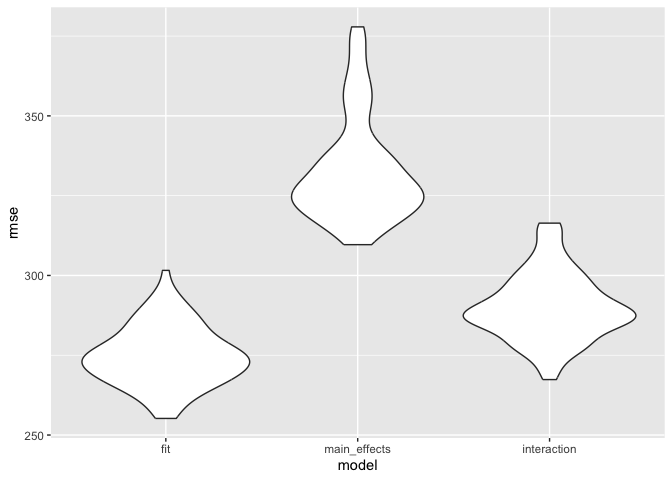
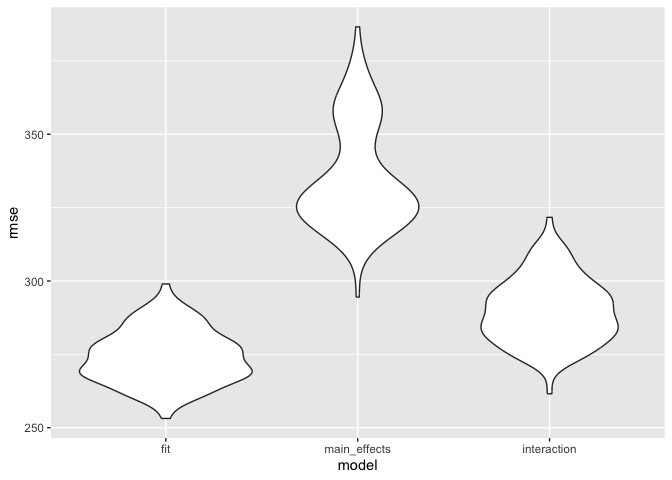
update something in q2 and q3

diff --git a/p8105_hw6_qs2261.md b/p8105_hw6_qs2261.md
@@ -68,7 +68,7 @@ log_beta =
 - There are many estimates of prcp is negative, so we get many NAs when
   calculating the log(beta1\*beta2).
 
-Plot the distribution of your estimates, and describe these in words.
+Plot the distribution of `r.squared`, and describe these in words.
 
 ``` r
 r_square |> 
@@ -79,8 +79,10 @@ r_square |>
 ![](p8105_hw6_qs2261_files/figure-gfm/unnamed-chunk-3-1.png)<!-- -->
 
 - r_square: the distribution of r_square under repeated strap is a
-  little left skewed, the majority of the r square value is greater than
-  0.9 and centered around 0.918.
+  little left skewed, the majority of the r square value is between 0.88
+  and 0.94, and the peak is around 0.918.
+
+Plot the distribution of `log_beta1_beta2`, and describe these in words.
 
 ``` r
 log_beta |> 
@@ -88,43 +90,37 @@ log_beta |>
   geom_density()
 ```
 
-    ## Warning: Removed 3341 rows containing non-finite values (`stat_density()`).
+    ## Warning: Removed 3383 rows containing non-finite values (`stat_density()`).
 
 ![](p8105_hw6_qs2261_files/figure-gfm/unnamed-chunk-4-1.png)<!-- -->
 
 - log_beta: Since we get many NAs when calculating the
-  log(beta1\*beta2), we removed 3327 rows in this distribution plot. The
+  log(beta1\*beta2), we removed many rows in this distribution plot. The
   distribution of log_beta under repeated strap is left skewed, and the
-  majority estimates of the log_beta are greater than -7.5 and centered
-  around -5.
+  majority estimates of the log_beta are between -8 and -4.5, and the
+  peak is around -5.
 
 Compute 95% CI
 
 ``` r
-r_square |> 
+r_square_sum =
+  r_square |> 
   summarize(
     ci_lower = quantile(r.squared, 0.025),
     ci_upper = quantile(r.squared, 0.975)
   )
-```
 
-    ## # A tibble: 1 × 2
-    ##   ci_lower ci_upper
-    ##      <dbl>    <dbl>
-    ## 1    0.888    0.941
-
-``` r
-log_beta |> 
+log_beta_sum =
+  log_beta |> 
   summarize(
     ci_lower = quantile(log_beta1_beta2, 0.025, na.rm = TRUE),
     ci_upper = quantile(log_beta1_beta2, 0.975, na.rm = TRUE)
   )
 ```
 
-    ## # A tibble: 1 × 2
-    ##   ci_lower ci_upper
-    ##      <dbl>    <dbl>
-    ## 1    -9.25    -4.59
+The 95% CI for R squared is from 0.8898596 to -4.5687042.
+
+The 95% CI for log_beta1_beta2 is from -9.2914709 to -4.5687042.
 
 ## Problem 3
 
@@ -145,21 +141,6 @@ birthweight_raw =
     ## ℹ Use `spec()` to retrieve the full column specification for this data.
     ## ℹ Specify the column types or set `show_col_types = FALSE` to quiet this message.
 
-Check for missing value
-
-``` r
-birthweight_raw |> 
-  summarise_all(~sum(is.na(.)))
-```
-
-    ## # A tibble: 1 × 20
-    ##   babysex bhead blength   bwt delwt fincome frace gaweeks malform menarche
-    ##     <int> <int>   <int> <int> <int>   <int> <int>   <int>   <int>    <int>
-    ## 1       0     0       0     0     0       0     0       0       0        0
-    ## # ℹ 10 more variables: mheight <int>, momage <int>, mrace <int>, parity <int>,
-    ## #   pnumlbw <int>, pnumsga <int>, ppbmi <int>, ppwt <int>, smoken <int>,
-    ## #   wtgain <int>
-
 Clean data
 
 ``` r
@@ -170,16 +151,22 @@ birthweight_df =
     frace = as.factor(frace),
     malform = as.factor(malform),
     mrace = as.factor(mrace)
-    )
+    ) |> 
+  drop_na()
 ```
 
 ### Propose a regression model for birthweight
 
+- From my understanding, birthweight may be affected by baby’s sex,
+  baby’s length at birth, mother’s weight at delivery, gestational age
+  in weeks, presence of malformations that could affect weight, mother’s
+  weight gain during pregnancy. In this case, I decide to choose
+  `babysex` `blength` `delwt` `gaweeks` `malform` `wtgain` as predictors
+  to predict birth weight, and fit the data to a multiple linear
+  regression model.
+
 ``` r
-fit = lm(bwt ~babysex + bhead + blength + delwt + fincome + frace +
-               gaweeks + malform + menarche + mheight + momage + mrace +
-               parity + pnumlbw + pnumsga + ppbmi + ppwt + smoken + wtgain,
-             data = birthweight_df) 
+fit = lm(bwt ~babysex + blength + delwt + gaweeks + malform + menarche +  wtgain, data = birthweight_df) 
 
 broom::glance(fit)
 ```
@@ -187,30 +174,24 @@ broom::glance(fit)
     ## # A tibble: 1 × 12
     ##   r.squared adj.r.squared sigma statistic p.value    df  logLik    AIC    BIC
     ##       <dbl>         <dbl> <dbl>     <dbl>   <dbl> <dbl>   <dbl>  <dbl>  <dbl>
-    ## 1     0.718         0.717  272.      525.       0    21 -30498. 61042. 61189.
+    ## 1     0.593         0.592  327.      902.       0     7 -31297. 62612. 62670.
     ## # ℹ 3 more variables: deviance <dbl>, df.residual <int>, nobs <int>
 
 ``` r
 broom::tidy(fit)
 ```
 
-    ## # A tibble: 25 × 5
-    ##    term         estimate std.error statistic   p.value
-    ##    <chr>           <dbl>     <dbl>     <dbl>     <dbl>
-    ##  1 (Intercept) -6265.      660.      -9.49   3.81e- 21
-    ##  2 babysex2       28.7       8.47     3.39   7.02e-  4
-    ##  3 bhead         131.        3.45    37.9    2.16e-271
-    ##  4 blength        75.0       2.02    37.1    1.75e-261
-    ##  5 delwt           4.10      0.395   10.4    5.62e- 25
-    ##  6 fincome         0.290     0.180    1.61   1.07e-  1
-    ##  7 frace2         14.3      46.2      0.311  7.56e-  1
-    ##  8 frace3         21.2      69.3      0.306  7.59e-  1
-    ##  9 frace4        -47.0      44.7     -1.05   2.93e-  1
-    ## 10 frace8          4.30     74.1      0.0580 9.54e-  1
-    ## # ℹ 15 more rows
-
-- I put all the variables into my regression model since all the
-  variables have potential to affect birth weight.
+    ## # A tibble: 8 × 5
+    ##   term          estimate std.error statistic   p.value
+    ##   <chr>            <dbl>     <dbl>     <dbl>     <dbl>
+    ## 1 (Intercept) -4365.       108.    -40.3     2.44e-301
+    ## 2 babysex2      -18.1       10.0    -1.81    7.01e-  2
+    ## 3 blength       123.         2.01   60.9     0        
+    ## 4 delwt           2.16       0.251   8.59    1.20e- 17
+    ## 5 gaweeks        25.6        1.70   15.1     2.35e- 50
+    ## 6 malform1       41.6       84.6     0.491   6.23e-  1
+    ## 7 menarche       -0.0101     3.37   -0.00300 9.98e-  1
+    ## 8 wtgain          2.75       0.506   5.43    5.82e-  8
 
 ### Diagnostics
 
@@ -219,18 +200,19 @@ birthweight_df |>
   modelr::add_predictions(fit) |> 
   modelr::add_residuals(fit) |> 
   ggplot(aes(x = pred, y = resid)) +
-  geom_point()
+  geom_point() +
+  labs(
+    title = "model residuals against fitted values ", 
+    x = ("Fitted Value"),
+    y = ("Residuals")
+    )
 ```
 
-    ## Warning in predict.lm(model, data): prediction from rank-deficient fit; attr(*,
-    ## "non-estim") has doubtful cases
+![](p8105_hw6_qs2261_files/figure-gfm/unnamed-chunk-9-1.png)<!-- -->
 
-    ## Warning in predict.lm(model, data): prediction from rank-deficient fit; attr(*,
-    ## "non-estim") has doubtful cases
-
-![](p8105_hw6_qs2261_files/figure-gfm/unnamed-chunk-10-1.png)<!-- --> \*
-The pattern of scatter plot between predictions and residuals is not
-random
+- The pattern of scatter plot between predictions and residuals is not
+  random, and in a cluster, which means this model does not meet the
+  assumption of linear regression model.
 
 ### Compare my model to two others:
 
@@ -267,10 +249,10 @@ anova(main_effects, fit) |>
 ```
 
     ## # A tibble: 2 × 7
-    ##   term                        df.residual    rss    df   sumsq statistic p.value
-    ##   <chr>                             <dbl>  <dbl> <dbl>   <dbl>     <dbl>   <dbl>
-    ## 1 bwt ~ blength + gaweeks            4339 4.82e8    NA NA            NA       NA
-    ## 2 bwt ~ babysex + bhead + bl…        4320 3.21e8    19  1.61e8      114.       0
+    ##   term                      df.residual    rss    df   sumsq statistic   p.value
+    ##   <chr>                           <dbl>  <dbl> <dbl>   <dbl>     <dbl>     <dbl>
+    ## 1 bwt ~ blength + gaweeks          4339 4.82e8    NA NA           NA   NA       
+    ## 2 bwt ~ babysex + blength …        4334 4.63e8     5  1.83e7      34.3  1.88e-34
 
 One using head circumference, length, sex, and all interactions
 (including the three-way interaction) between these
@@ -310,10 +292,10 @@ anova(three_way, fit) |>
 ```
 
     ## # A tibble: 2 × 7
-    ##   term                      df.residual    rss    df   sumsq statistic   p.value
-    ##   <chr>                           <dbl>  <dbl> <dbl>   <dbl>     <dbl>     <dbl>
-    ## 1 bwt ~ bhead * blength * …        4334 3.59e8    NA NA           NA   NA       
-    ## 2 bwt ~ babysex + bhead + …        4320 3.21e8    14  3.81e7      36.6  1.10e-94
+    ##   term                        df.residual    rss    df   sumsq statistic p.value
+    ##   <chr>                             <dbl>  <dbl> <dbl>   <dbl>     <dbl>   <dbl>
+    ## 1 bwt ~ bhead * blength * ba…        4334 3.59e8    NA NA             NA      NA
+    ## 2 bwt ~ babysex + blength + …        4334 4.63e8     0 -1.05e8        NA      NA
 
 ### Cross-validate
 
@@ -342,15 +324,7 @@ cv_df =
   select(-fit_mod, -main_effects_mod, -interaction_mod)
 ```
 
-    ## Warning: There were 100 warnings in `mutate()`.
-    ## The first warning was:
-    ## ℹ In argument: `rmse_fit = map2_dbl(.x = fit_mod, .y = test, ~rmse(model = .x,
-    ##   data = .y))`.
-    ## Caused by warning in `predict.lm()`:
-    ## ! prediction from rank-deficient fit; attr(*, "non-estim") has doubtful cases
-    ## ℹ Run `dplyr::last_dplyr_warnings()` to see the 99 remaining warnings.
-
-compare rmse
+compare RMSE
 
 ``` r
 cv_df |> 
@@ -364,14 +338,16 @@ cv_df |>
   ggplot(aes(x = model, y = rmse)) + geom_violin()
 ```
 
-![](p8105_hw6_qs2261_files/figure-gfm/unnamed-chunk-15-1.png)<!-- -->
+![](p8105_hw6_qs2261_files/figure-gfm/unnamed-chunk-14-1.png)<!-- -->
 
 - By looking at the violin plot, I found the RMSE in my model is
   smallest, followed by interaction model.
 
-- It might be better to use my model to predict the birthweight but not
-  investigate the relationship between these exposures and birthweight
-  since I simply put all the relavent variables into the model.
-  Additionally, the difference of rmse between interaction model and my
-  model is not that big. Therefore, I think interaction model is better
-  here.
+- It might be better to use my model to evaluate the factors associated
+  with birthweight since my model have the smallest RMSE, which
+  indicates that my model fits the data better than the other two
+  models.
+
+- Additionally, the difference of RMSE between interaction model and my
+  model is not that big. Therefore, I think interaction model also works
+  well here.
